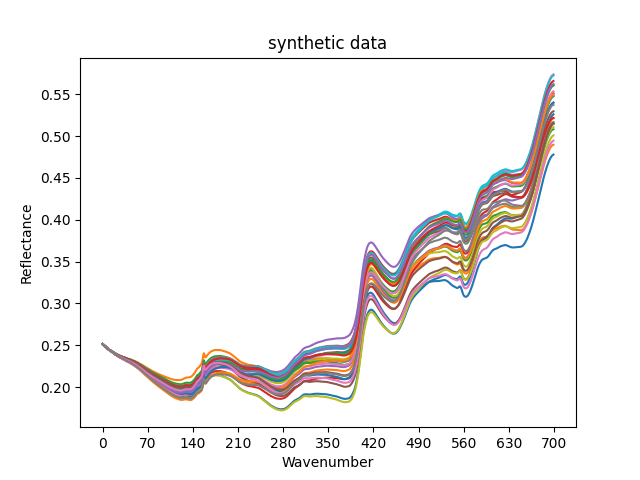
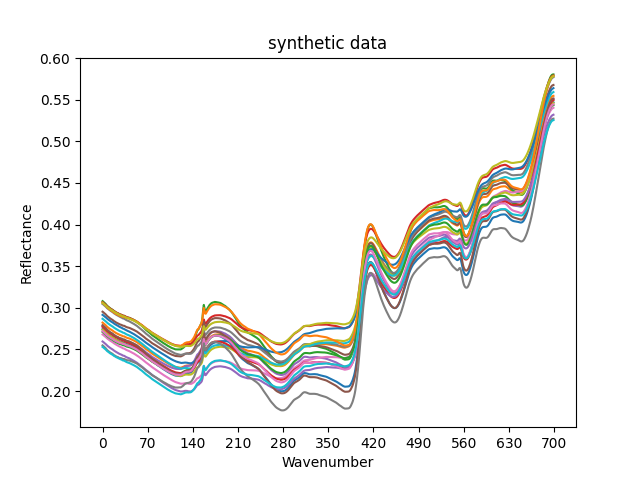
Updates syn-spectra generator

diff --git a/examples/utils/synthetic_data.py b/examples/utils/synthetic_data.py
@@ -18,10 +18,14 @@ class SyntheticGenerator:
         velo = np.diff(seed, 1)
         acc = np.diff(velo, 1)
 
-        n = 250 #  TODO: the generation process is probabilistic as of now, fix that with n_samples
+        n = 20 #  TODO: the generation process is probabilistic as of now, fix that with n_samples
 
-        # TODO: proof of concept
+        #proof of concept
         acc = acc * (0.2 * np.random.rand(n, acc.shape[0]) + 0.8)
+        acc_offset = (seed[-1] - seed[0]) - (velo[0] * (seed.shape[0] - 1))
+        acc_multiples = np.expand_dims(np.arange(seed.shape[0]-2, 0, -1), axis=0)
+        acc_norm = acc_offset / np.sum(acc*acc_multiples, axis=1)
+        acc = acc * np.expand_dims(acc_norm, axis=1)
 
         # TODO: switch to sampling with covariances to produce randomly selected correlation between wavelengths
         # cov = np.eye(seed.shape[0] - 2)
@@ -37,11 +41,12 @@ class SyntheticGenerator:
             velocity[:, i + 1] = velocity[:, i] + acc[:, i]
 
         trajectory = np.tile(seed, (n, 1))
+        trajectory[:, 0] = trajectory[:, 0] + 0.06 * np.random.rand(trajectory.shape[0])
         for i in range(velocity.shape[1]):
             trajectory[:, i + 1] = trajectory[:, i] + velocity[:, i]
 
-        diffs = np.abs(trajectory[:, -1] - seed[-1]) <= 0.05
-        trajectory = np.compress(diffs, trajectory, axis=0)
+        mask = np.all(trajectory >= 0, axis=1)
+        trajectory = np.compress(mask, trajectory, axis=0)
 
         return trajectory
 
@@ -61,8 +66,13 @@ def generate_2(seed):
     velo = np.diff(seed, 1)
     acc = np.diff(velo, 1)
 
-    n = 200
-    acc = acc * (0.2 * np.random.rand(n, acc.shape[0]) + 0.8)
+    n = 20
+    acc = acc * (0.1 * np.random.rand(n, acc.shape[0]) + 0.9)
+    acc_offset = (seed[-1] - seed[0]) - (velo[0] * (seed.shape[0] - 1))
+    acc_multiples = np.expand_dims(np.arange(seed.shape[0] - 2, 0, -1), axis=0)
+    acc_norm = acc_offset / np.sum(acc * acc_multiples, axis=1)
+    acc = acc * np.expand_dims(acc_norm, axis=1)
+
     #cov = np.eye(seed.shape[0] - 2)
     #sample = np.random.multivariate_normal(np.zeros((seed.shape[0]-2)), cov, size=n, check_valid='warn')
     #sample = np.array(sample).reshape((n, seed.shape[0]-2))
@@ -74,12 +84,13 @@ def generate_2(seed):
     for i in range(acc.shape[1]):
         velocity[:, i + 1] = velocity[:, i] + acc[:, i]
 
-    trajectory = np.tile(seed, (n,1))
+    trajectory = np.tile(seed, (n, 1))
+    trajectory[:, 0] = trajectory[:, 0] + 0.06 * np.random.rand(trajectory.shape[0])
     for i in range(velocity.shape[1]):
         trajectory[:, i + 1] = trajectory[:, i] + velocity[:, i]
 
-    diffs = np.abs(trajectory[:, -1] - seed[-1]) <= 0.05
-    trajectory = np.compress(diffs, trajectory, axis=0)
+    mask = np.all(trajectory >= 0, axis=1)
+    trajectory = np.compress(mask, trajectory, axis=0)
 
     print(f'Generated {trajectory.shape[0]} spectra')
     plot_spectra(np.arange(trajectory.shape[1]),
